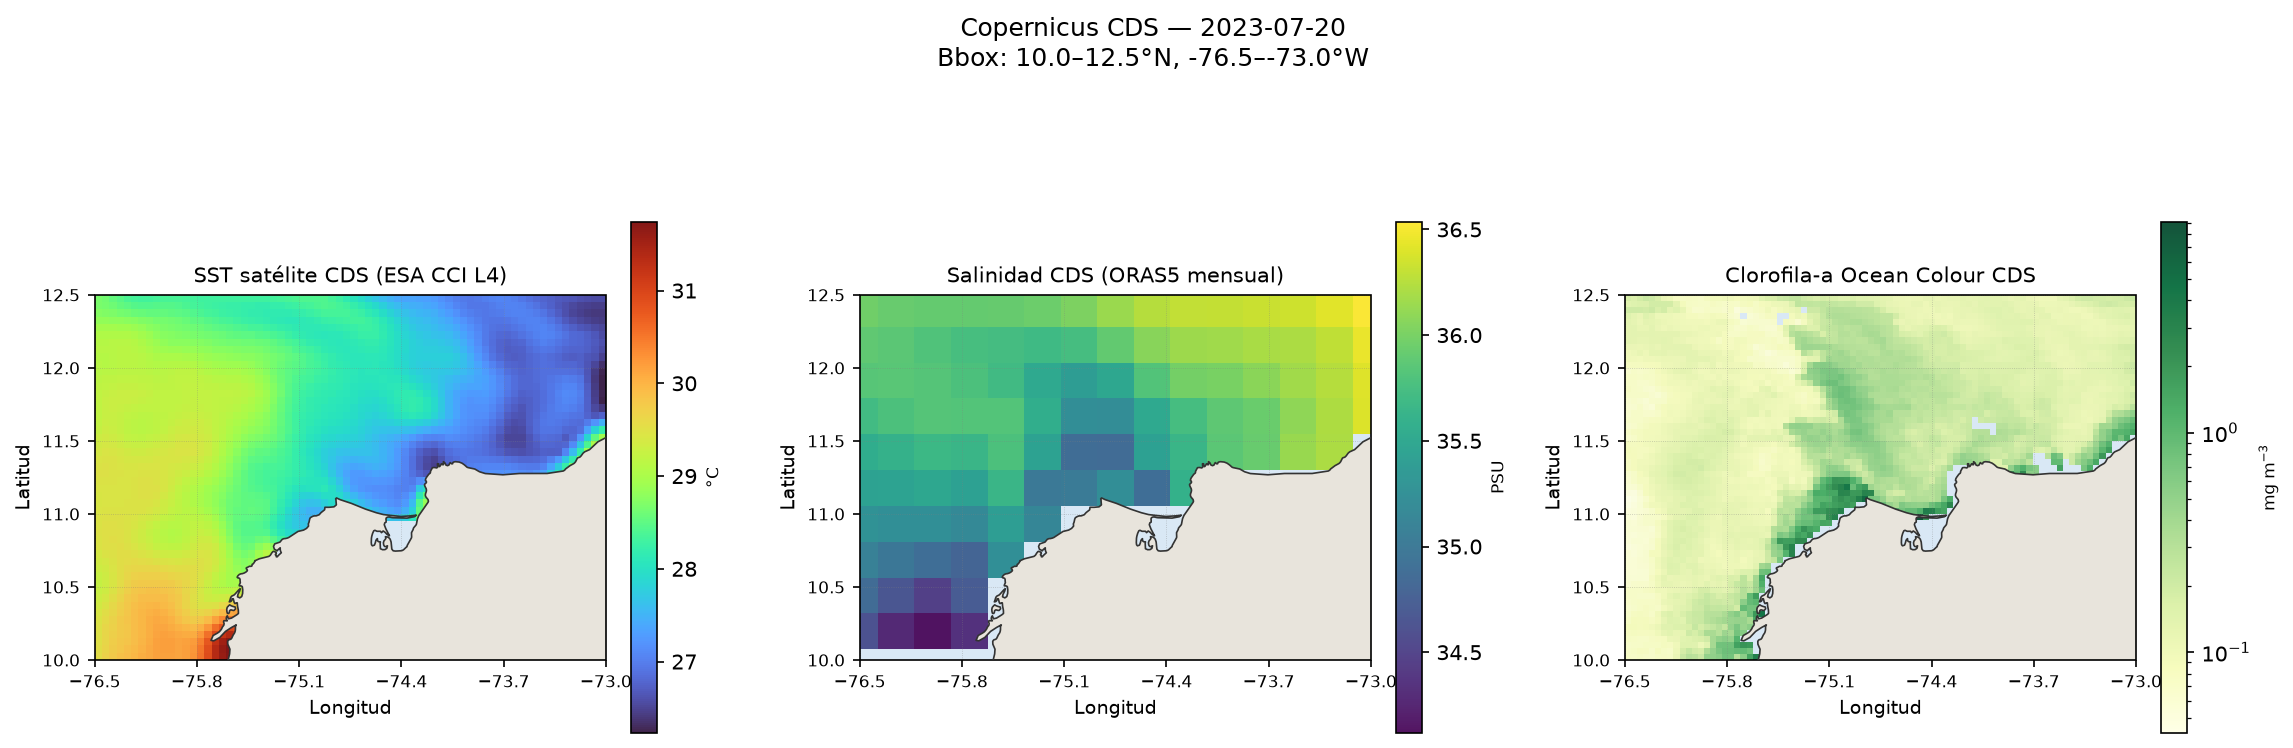
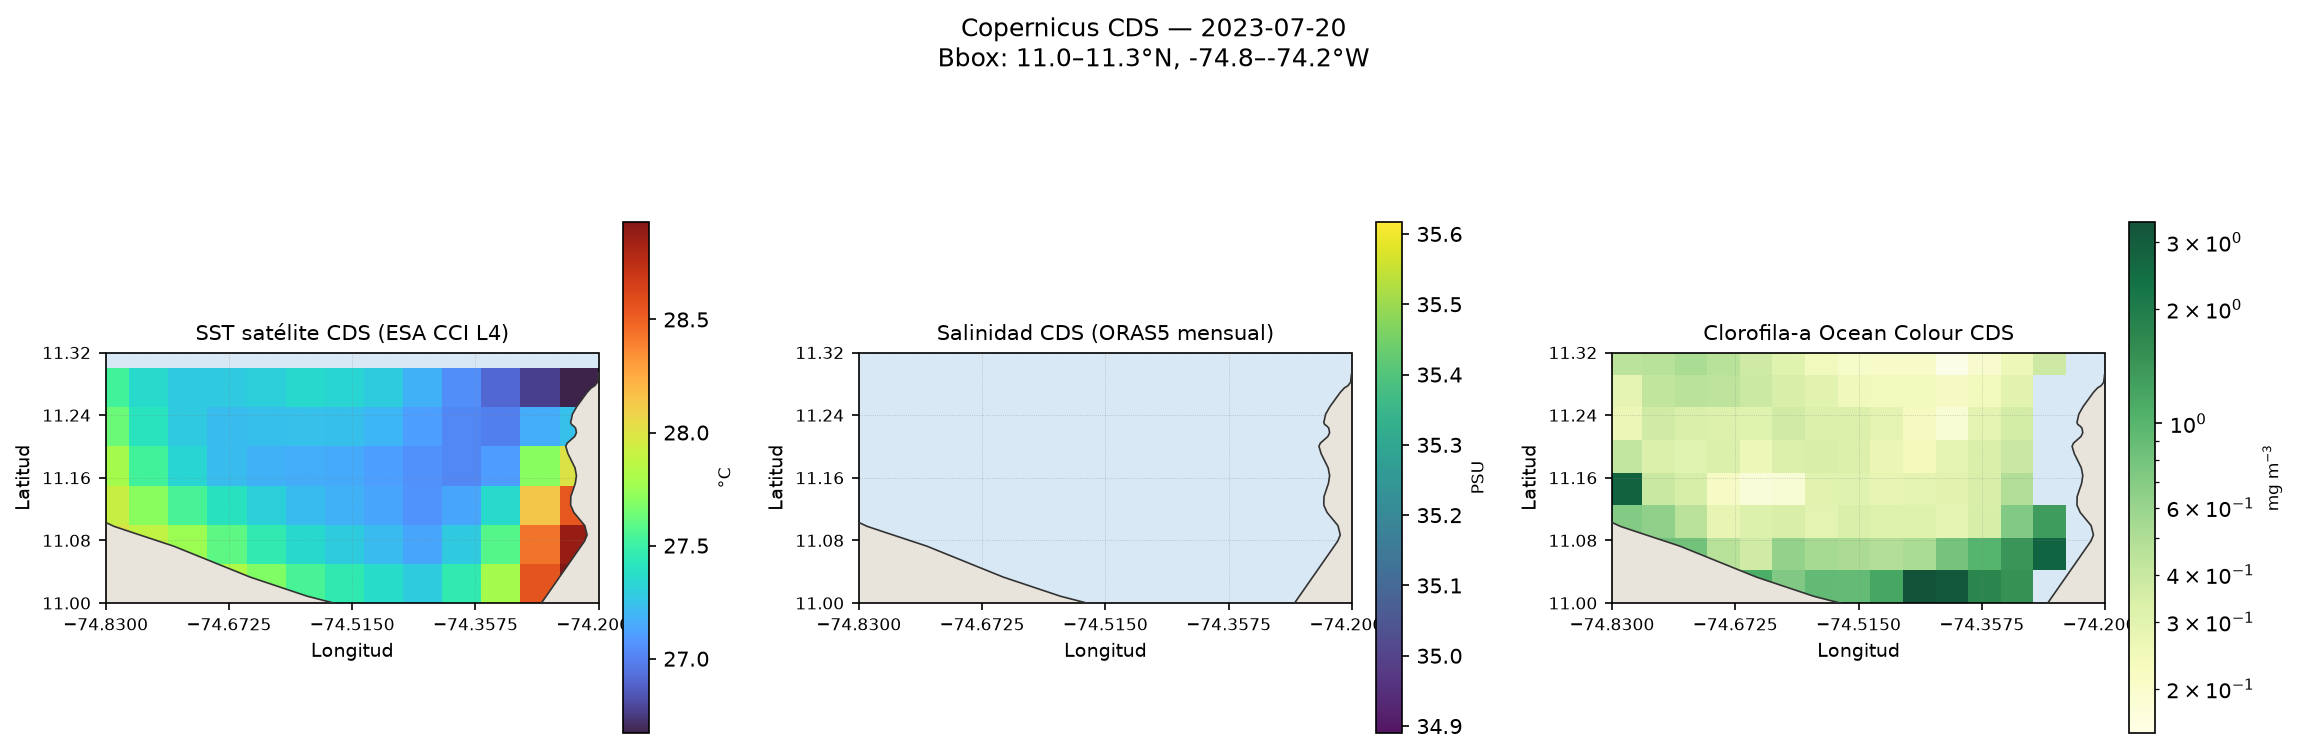
Tighten map extent back to the original coastal bbox
Restore 11.00–11.32N, 74.83–74.20W and regenerate CDS subset maps.

diff --git a/scripts/download_and_map_ocean.py b/scripts/download_and_map_ocean.py
@@ -28,9 +28,9 @@ import requests
 import xarray as xr
 from matplotlib.colors import LogNorm
 
-# Bbox ampliado (Caribe colombiano)
-LAT_S, LAT_N = 10.0, 12.5
-LON_W, LON_E = -76.5, -73.0
+# Bbox solicitado (cerca de Santa Marta)
+LAT_S, LAT_N = 11.00, 11.32
+LON_W, LON_E = -74.83, -74.20
 DATE = "2023-07-20"
 YEAR, MONTH, DAY = DATE.split("-")
 
@@ -145,6 +145,16 @@ def subset_latlon(ds: xr.Dataset, lat_name: str, lon_name: str) -> xr.Dataset:
     return ds.isel(y=slice(ys.min(), ys.max() + 1), x=slice(xs.min(), xs.max() + 1))
 
 
+def _retrieve_or_reuse(client: cdsapi.Client, dataset: str, request: dict, zip_path: Path) -> Path:
+    """Reutiliza zip local si ya existe (útil al solo cambiar el bbox)."""
+    if zip_path.exists() and zip_path.stat().st_size > 1000:
+        print(f"Reutilizando cache local: {zip_path.name}")
+        return zip_path
+    print(f"CDS -> {dataset}")
+    client.retrieve(dataset, request, str(zip_path))
+    return zip_path
+
+
 def download_cds() -> dict:
     DATA.mkdir(parents=True, exist_ok=True)
     TMP.mkdir(parents=True, exist_ok=True)
@@ -159,9 +169,8 @@ def download_cds() -> dict:
     )
 
     # 1) SST satélite L4 (global diario → subset local)
-    sst_zip = TMP / "sst_cds.zip"
-    print("CDS -> satellite-sea-surface-temperature")
-    client.retrieve(
+    sst_zip = _retrieve_or_reuse(
+        client,
         "satellite-sea-surface-temperature",
         {
             "variable": "all",
@@ -173,7 +182,7 @@ def download_cds() -> dict:
             "month": [MONTH],
             "day": [DAY],
         },
-        str(sst_zip),
+        TMP / "sst_cds.zip",
     )
     sst_nc = unzip_first_nc(sst_zip, TMP / "sst")
     sst_ds = subset_latlon(xr.open_dataset(sst_nc), "lat", "lon")
@@ -185,9 +194,8 @@ def download_cds() -> dict:
     sst_ds[["analysed_sst"]].to_netcdf(sst_out)
 
     # 2) Clorofila Ocean Colour satélite
-    chl_zip = TMP / "chl_cds.zip"
-    print("CDS -> satellite-ocean-colour")
-    client.retrieve(
+    chl_zip = _retrieve_or_reuse(
+        client,
         "satellite-ocean-colour",
         {
             "variable": ["mass_concentration_of_chlorophyll_a"],
@@ -198,7 +206,7 @@ def download_cds() -> dict:
             "day": [DAY],
             "version": "6_0",
         },
-        str(chl_zip),
+        TMP / "chl_cds.zip",
     )
     chl_nc = unzip_first_nc(chl_zip, TMP / "chl")
     chl_ds = subset_latlon(xr.open_dataset(chl_nc), "lat", "lon")
@@ -206,9 +214,8 @@ def download_cds() -> dict:
     chl_ds[["chlor_a"]].to_netcdf(chl_out)
 
     # 3) Salinidad: en CDS no hay SSS satélite diaria; ORAS5 mensual (operacional)
-    sss_zip = TMP / "sss_cds.zip"
-    print("CDS -> reanalysis-oras5 (sea_surface_salinity, mensual)")
-    client.retrieve(
+    sss_zip = _retrieve_or_reuse(
+        client,
         "reanalysis-oras5",
         {
             "product_type": ["operational"],
@@ -217,7 +224,7 @@ def download_cds() -> dict:
             "year": [YEAR],
             "month": [MONTH],
         },
-        str(sss_zip),
+        TMP / "sss_cds.zip",
     )
     sss_nc = unzip_first_nc(sss_zip, TMP / "sss")
     sss_ds = subset_latlon(xr.open_dataset(sss_nc), "nav_lat", "nav_lon")
@@ -328,12 +335,19 @@ def download_erddap() -> dict:
 
 def load_field(cfg: dict) -> tuple[np.ndarray, np.ndarray, np.ndarray]:
     ds = xr.open_dataset(cfg["file"])
-    da = ds[cfg["var"]].squeeze(drop=True)
+    da = ds[cfg["var"]]
+    # Quitar solo ejes temporales de tamaño 1; conservar y/x aunque sean 1 (ORAS5 en bbox chico)
+    for dim in list(da.dims):
+        if "time" in dim and da.sizes[dim] == 1:
+            da = da.squeeze(dim, drop=True)
     if cfg.get("grid") == "curvilinear":
         lon = np.asarray(ds[cfg.get("lon", "nav_lon")].values)
         lat = np.asarray(ds[cfg.get("lat", "nav_lat")].values)
         data = np.asarray(da.values, dtype=float)
+        if data.ndim == 1:
+            data = data.reshape(lat.shape)
         return lon, lat, data
+    da = da.squeeze(drop=True)
     lon_name = next(c for c in ("longitude", "lon", "x") if c in da.coords or c in ds.coords)
     lat_name = next(c for c in ("latitude", "lat", "y") if c in da.coords or c in ds.coords)
     lon = np.asarray(ds[lon_name].values if lon_name in ds.coords else da[lon_name].values)
@@ -350,8 +364,8 @@ def add_basemap(ax) -> None:
     ax.add_feature(
         cfeature.BORDERS.with_scale("10m"), linewidth=0.5, edgecolor="#666666", linestyle="--", zorder=3
     )
-    ax.set_xticks(np.linspace(LON_W, LON_E, 6), crs=ccrs.PlateCarree())
-    ax.set_yticks(np.linspace(LAT_S, LAT_N, 6), crs=ccrs.PlateCarree())
+    ax.set_xticks(np.linspace(LON_W, LON_E, 5), crs=ccrs.PlateCarree())
+    ax.set_yticks(np.linspace(LAT_S, LAT_N, 5), crs=ccrs.PlateCarree())
     ax.tick_params(labelsize=8)
     ax.set_xlabel("Longitud", fontsize=9)
     ax.set_ylabel("Latitud", fontsize=9)

diff --git a/README.md b/README.md
@@ -6,10 +6,10 @@ Descarga de un día/mes de variables oceánicas desde el **Climate Data Store (C
 
 | Límite | Valor     |
 |--------|-----------|
-| Norte  | 12.5° N   |
-| Sur    | 10.0° N   |
-| Este   | -73.0° W  |
-| Oeste  | -76.5° W  |
+| Norte  | 11.32° N  |
+| Sur    | 11.00° N  |
+| Este   | -74.20° W |
+| Oeste  | -74.83° W |
 
 ## Fecha
 
